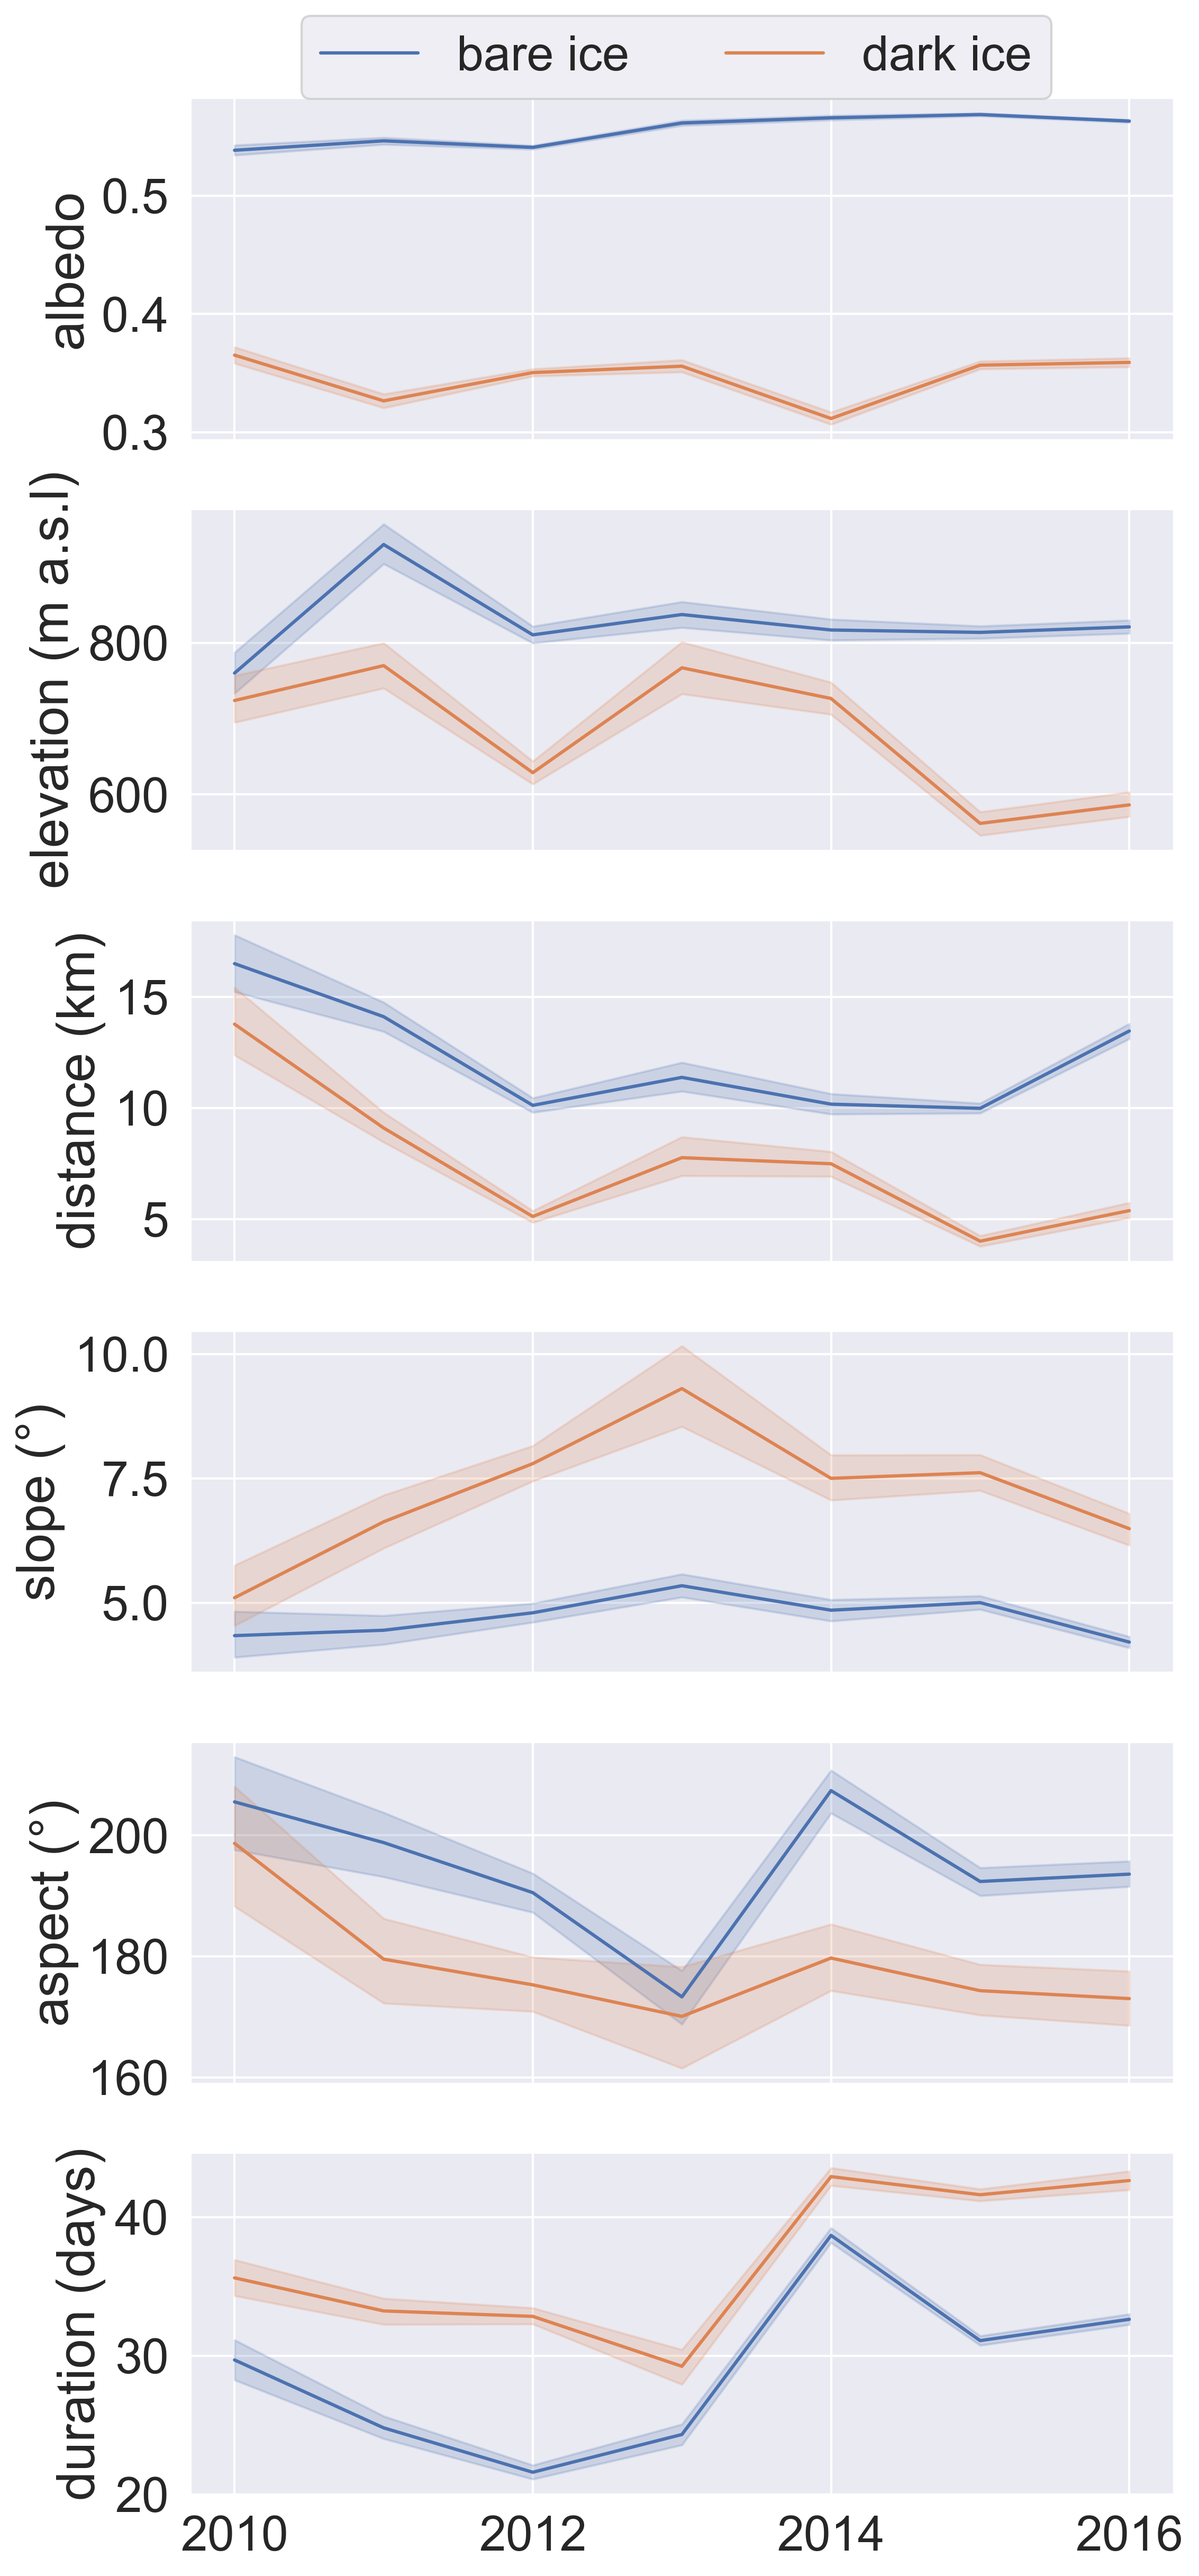
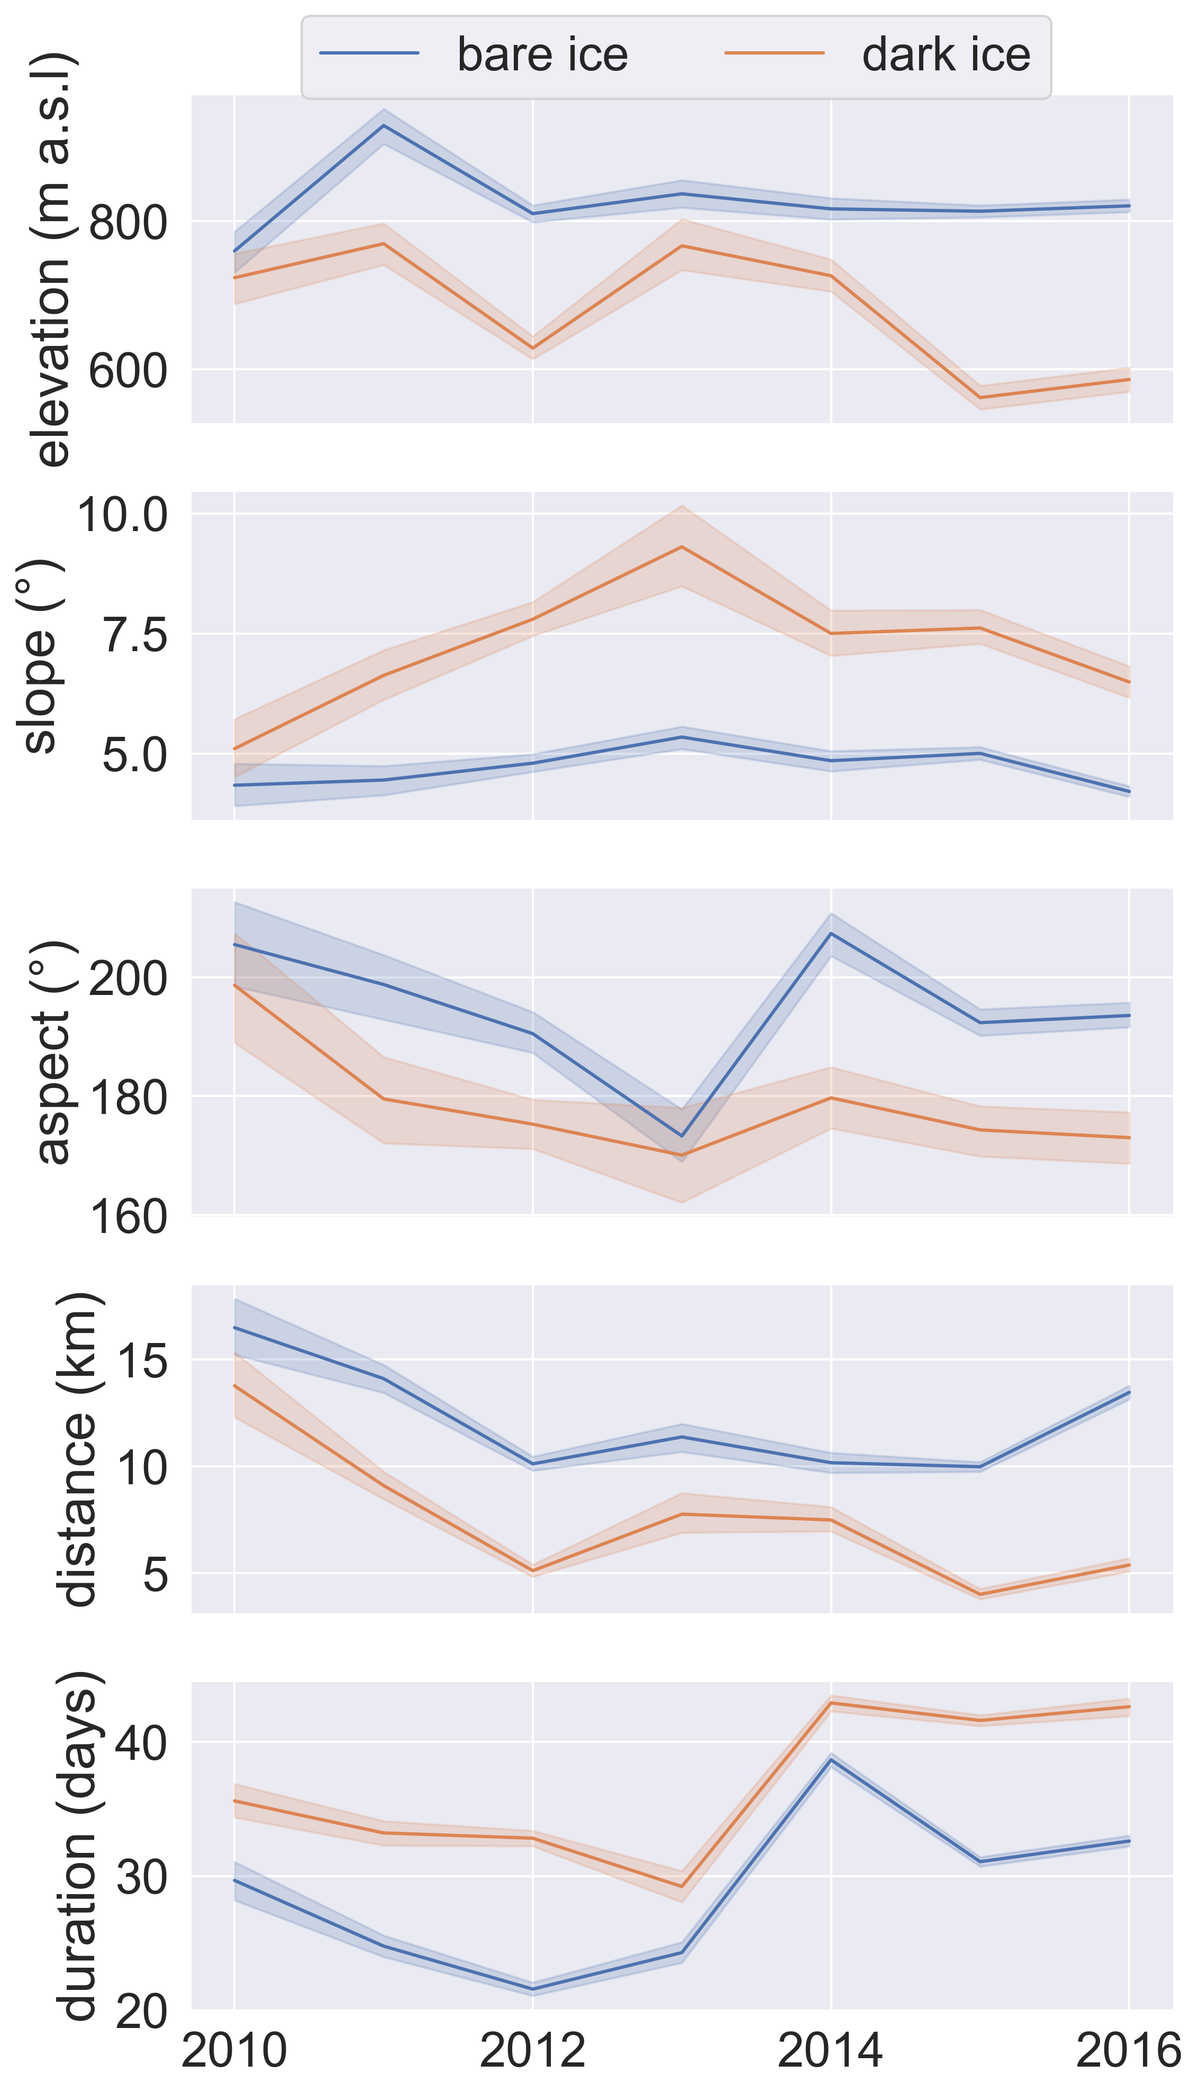
update lineplot

diff --git a/topoanalysis.py b/topoanalysis.py
@@ -276,25 +276,26 @@ df.ice_class[index] = "dark ice"
 index = df.year>2009
 df = df[index]
 
-fig, ax = plt.subplots(6, 1, figsize=(8,20))
-sns.lineplot(ax=ax[0], data=df, x="year", y="albedo", hue="ice_class")
+fig, ax = plt.subplots(5, 1, figsize=(8,16))
+# sns.lineplot(ax=ax[0], data=df, x="year", y="albedo", hue="ice_class")
+# ax[0].legend(bbox_to_anchor=(0.9, 1.31), ncol=2)
+# ax[0].set(xlabel="", ylabel="albedo", xticklabels=[])
+# fig, ax = plt.subplots(figsize=(8,4))
+sns.lineplot(ax=ax[0], data=df, x="year", y="elevation", hue="ice_class")
+ax[0].set(xlabel="", ylabel="elevation (m a.s.l)", xticklabels=[])
 ax[0].legend(bbox_to_anchor=(0.9, 1.31), ncol=2)
-ax[0].set(xlabel="", ylabel="albedo", xticklabels=[])
 # fig, ax = plt.subplots(figsize=(8,4))
-sns.lineplot(ax=ax[4], data=df, x="year", y="elevation", hue="ice_class", legend=False)
-ax[4].set(xlabel="", ylabel="elevation (m a.s.l)", xticklabels=[])
+sns.lineplot(ax=ax[3], data=df, x="year", y="distance", hue="ice_class", legend=False)
+ax[3].set(xlabel="", ylabel="distance (km)", xticklabels=[])
 # fig, ax = plt.subplots(figsize=(8,4))
-sns.lineplot(ax=ax[2], data=df, x="year", y="distance", hue="ice_class", legend=False)
-ax[2].set(xlabel="", ylabel="distance (km)", xticklabels=[])
+sns.lineplot(ax=ax[1], data=df, x="year", y="slope", hue="ice_class", legend=False)
+ax[1].set(xlabel="", ylabel="slope (" + u'\N{DEGREE SIGN}' + ')', xticklabels=[])
 # fig, ax = plt.subplots(figsize=(8,4))
-sns.lineplot(ax=ax[2], data=df, x="year", y="slope", hue="ice_class", legend=False)
-ax[2].set(xlabel="", ylabel="slope (" + u'\N{DEGREE SIGN}' + ')', xticklabels=[])
+sns.lineplot(ax=ax[2], data=df, x="year", y="aspect", hue="ice_class", legend=False)
+ax[2].set(xlabel="", ylabel="aspect (" + u'\N{DEGREE SIGN}' + ')', xticklabels=[])
 # fig, ax = plt.subplots(figsize=(8,4))
-sns.lineplot(ax=ax[3], data=df, x="year", y="aspect", hue="ice_class", legend=False)
-ax[3].set(xlabel="", ylabel="aspect (" + u'\N{DEGREE SIGN}' + ')', xticklabels=[])
-# fig, ax = plt.subplots(figsize=(8,4))
-sns.lineplot(ax=ax[5], data=df, x="year", y="duration", hue="ice_class", legend=False)
-ax[5].set(xlabel="", ylabel="duration (days)")
+sns.lineplot(ax=ax[4], data=df, x="year", y="duration", hue="ice_class", legend=False)
+ax[4].set(xlabel="", ylabel="duration (days)")
 fig.savefig("print/basin/SW_lineplot.png", dpi=300, bbox_inches="tight")
 
 df = df.groupby(["year", "ice_class"]).mean().reset_index()
@@ -338,25 +339,26 @@ df.ice_class[index] = "dark ice"
 index = df.year>2009
 df = df[index]
 
-fig, ax = plt.subplots(6, 1, figsize=(8,20))
-sns.lineplot(ax=ax[0], data=df, x="year", y="albedo", hue="ice_class")
+fig, ax = plt.subplots(5, 1, figsize=(8,16))
+# sns.lineplot(ax=ax[0], data=df, x="year", y="albedo", hue="ice_class")
+# ax[0].legend(bbox_to_anchor=(0.9, 1.31), ncol=2)
+# ax[0].set(xlabel="", ylabel="albedo", xticklabels=[])
+# fig, ax = plt.subplots(figsize=(8,4))
+sns.lineplot(ax=ax[0], data=df, x="year", y="elevation", hue="ice_class")
+ax[0].set(xlabel="", ylabel="elevation (m a.s.l)", xticklabels=[])
 ax[0].legend(bbox_to_anchor=(0.9, 1.31), ncol=2)
-ax[0].set(xlabel="", ylabel="albedo", xticklabels=[])
 # fig, ax = plt.subplots(figsize=(8,4))
-sns.lineplot(ax=ax[4], data=df, x="year", y="elevation", hue="ice_class", legend=False)
-ax[4].set(xlabel="", ylabel="elevation (m a.s.l)", xticklabels=[])
+sns.lineplot(ax=ax[3], data=df, x="year", y="distance", hue="ice_class", legend=False)
+ax[3].set(xlabel="", ylabel="distance (km)", xticklabels=[])
 # fig, ax = plt.subplots(figsize=(8,4))
-sns.lineplot(ax=ax[2], data=df, x="year", y="distance", hue="ice_class", legend=False)
-ax[2].set(xlabel="", ylabel="distance (km)", xticklabels=[])
+sns.lineplot(ax=ax[1], data=df, x="year", y="slope", hue="ice_class", legend=False)
+ax[1].set(xlabel="", ylabel="slope (" + u'\N{DEGREE SIGN}' + ')', xticklabels=[])
 # fig, ax = plt.subplots(figsize=(8,4))
-sns.lineplot(ax=ax[2], data=df, x="year", y="slope", hue="ice_class", legend=False)
-ax[2].set(xlabel="", ylabel="slope (" + u'\N{DEGREE SIGN}' + ')', xticklabels=[])
+sns.lineplot(ax=ax[2], data=df, x="year", y="aspect", hue="ice_class", legend=False)
+ax[2].set(xlabel="", ylabel="aspect (" + u'\N{DEGREE SIGN}' + ')', xticklabels=[])
 # fig, ax = plt.subplots(figsize=(8,4))
-sns.lineplot(ax=ax[3], data=df, x="year", y="aspect", hue="ice_class", legend=False)
-ax[3].set(xlabel="", ylabel="aspect (" + u'\N{DEGREE SIGN}' + ')', xticklabels=[])
-# fig, ax = plt.subplots(figsize=(8,4))
-sns.lineplot(ax=ax[5], data=df, x="year", y="duration", hue="ice_class", legend=False)
-ax[5].set(xlabel="", ylabel="duration (days)")
+sns.lineplot(ax=ax[4], data=df, x="year", y="duration", hue="ice_class", legend=False)
+ax[4].set(xlabel="", ylabel="duration (days)")
 fig.savefig("print/basin/SE_lineplot.png", dpi=300, bbox_inches="tight")
 
 df = df.groupby(["year", "ice_class"]).mean().reset_index()
